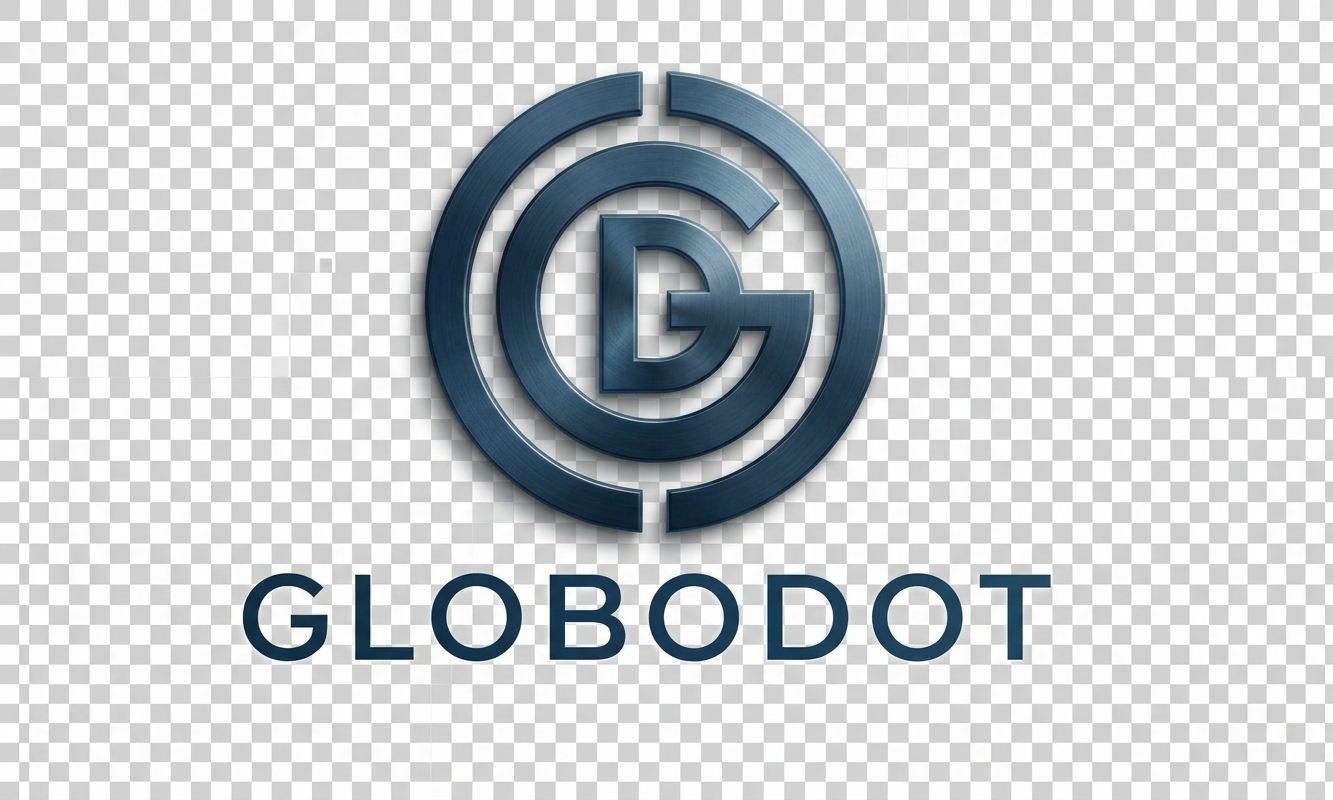
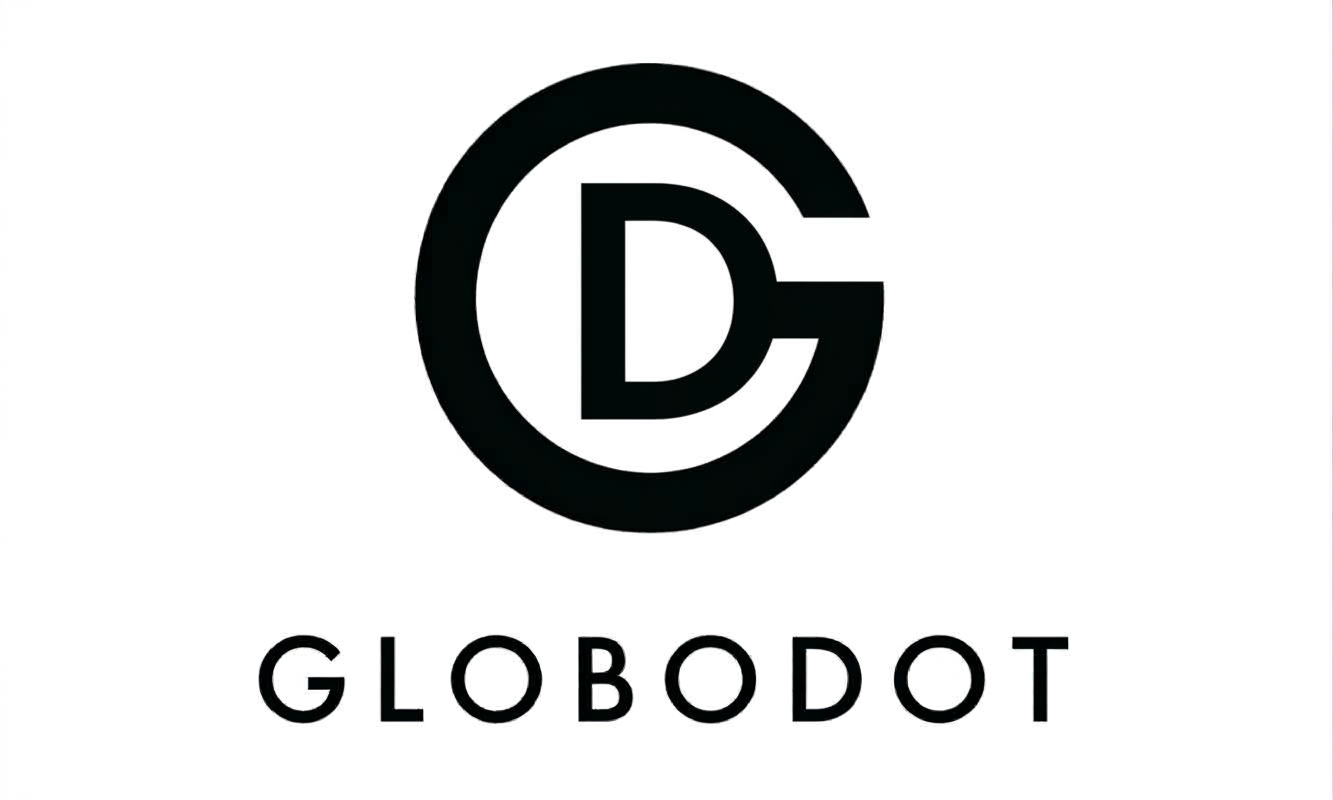
chore: globodot image.

diff --git a/globomanticsdot/index.html b/globomanticsdot/index.html
@@ -4,8 +4,8 @@
     <meta charset="UTF-8" />
     <meta name="viewport" content="width=device-width, initial-scale=1.0" />
     <link rel="icon" type="image/svg+xml" href="/vite.svg" />    
-    <link href="https://cdn.jsdelivr.net/npm/bootstrap@6.0.0-alpha.1/dist/css/bootstrap.min.css" rel="stylesheet" integrity="sha384-B/GM4XqrwHnWXNOWMbloTmrYXZg10cakYGmpfsR/bbzQ6JAJI4ihuyADKLnBgrCe" crossorigin="anonymous">
-    <script type="module" src="https://cdn.jsdelivr.net/npm/bootstrap@6.0.0-alpha.1/dist/js/bootstrap.bundle.min.js" integrity="sha384-1a/pXj49ZQ1aHEmrJ+gMw1otqoVsYwlEnlD8mIfY2TV03r20Y0CN7uqx1tQogjPL" crossorigin="anonymous"></script>
+    <link href="https://cdn.jsdelivr.net/npm/bootstrap@5.0.2/dist/css/bootstrap.min.css" rel="stylesheet" integrity="sha384-EVSTQN3/azprG1Anm3QDgpJLIm9Nao0Yz1ztcQTwFspd3yD65VohhpuuCOmLASjC" crossorigin="anonymous">
+    <script src="https://cdn.jsdelivr.net/npm/bootstrap@5.0.2/dist/js/bootstrap.bundle.min.js" integrity="sha384-MrcW6ZMFYlzcLA8Nl+NtUVF0sA7MsXsP1UyJoMp4YLEuNSfAP+JcXn/tWtIaxVXM" crossorigin="anonymous"></script>
     <link rel="stylesheet" href="/globals.css" />
     <title>GlobomanticsDot</title>
   

diff --git a/globomanticsdot/src/components/Banner.jsx b/globomanticsdot/src/components/Banner.jsx
@@ -1,4 +1,4 @@
-import logo from "../assets/GloboDotBlue.png"
+import logo from "../assets/GloboDot.png"
 
 const Banner = () => {
     return (
